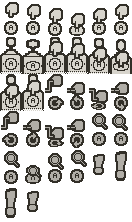
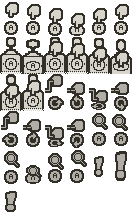
Enemy wall-slide, battery crank & animation fixes
Stop enemies from grinding against walls by sliding on the free axis: Box collisions now return 'slide' and manual bounce excludes Box in enemy.lua (fixes oscillation). Add battery config options (chargeWhileTiny, crankTicksPerRev) and increase fallPixelsTiny; use Config.Battery.max in battery HUD percent calculation. MazeScene now respects chargeWhileTiny for the crank indicator/charging and uses crankTicksPerRev with getCrankTicks. Update balancing animation frame indices. Bump pdxinfo version/build, swap two image assets, and add a docs note describing the wall-slide change.

diff --git a/source/DOCS/LOVE2D_PORT_UPDATES.md b/source/DOCS/LOVE2D_PORT_UPDATES.md
@@ -10,6 +10,29 @@ or door flow, those documents are the authoritative model.
 
 ---
 
+## 2026-08-06 — Fix: enemy wall-sliding (stop grinding/oscillating against walls)
+
+**What:** Enemies now **slide along walls** on the free axis instead of freezing and bouncing off
+them. In `Enemy:collisionResponse`, walls (`Box`) return `'slide'` instead of `'freeze'`, and the
+manual bounce in `Enemy:moveCollision` no longer fires for `Box` (only for dynamic `PropItem` /
+`Enemy`).
+
+**Why:** With `'freeze'` a diagonal move into a wall stopped the enemy dead (no free-axis motion),
+and the manual bounce then shoved it back a few px — so each AI turn it re-approached the same wall
+corner and oscillated in place ("kept trying to push through the wall") instead of rounding it. The
+pathfinder was correct; the 32px body just couldn't execute the diagonal step through a 16px-grid
+corner. Sliding lets the free axis carry it around the corner.
+
+**Files (Playdate side):** `entities/enemies/enemy.lua` (`collisionResponse` Box → `'slide'`;
+`moveCollision` bounce excludes `Box`).
+
+**How it maps to Love2D:** Use the port's collision layer to slide the enemy along wall AABBs on the
+free axis when the primary axis is blocked (resolve axes separately: attempt X and Y independently,
+keep whichever succeeds), and do NOT apply the dynamic-object pushback to static wall tiles. Applies
+to hunters only; `CrewMember` is unaffected.
+
+---
+
 ## 2026-08-06 — Stealth-hunter enemy AI: pathfinding, line of sight, sensory states
 
 **What:** Replaced the hunter AI (`Brocorat`, and `Bosscolli` by inheritance) with a stealth model.
